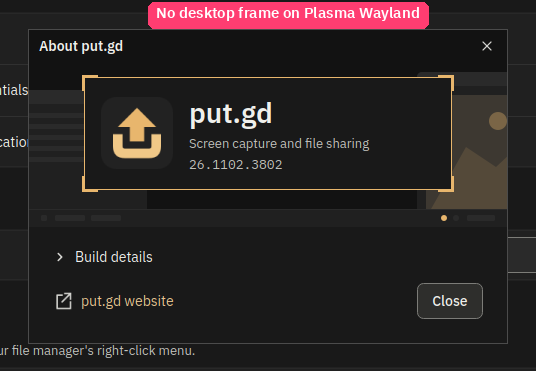
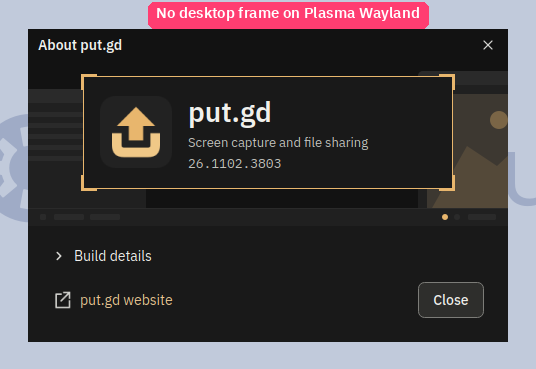
docs(ui): retake About pictures without the outline

diff --git a/docs/evidence/2026-11-02-about-window/README.md b/docs/evidence/2026-11-02-about-window/README.md
@@ -1,10 +1,10 @@
 # About window redesign (#1155)
 
-Pictures of the About window with put.gd's own title bar, the capture scene and
-the window fitted to its content.
+Pictures of the About window with put.gd's own title bar, the capture scene, no
+outline, and the window fitted to its content.
 
-Every "after" picture shows build `26.1102.3802-dev+g822dea2cddcd`, commit
-`822dea2cddcd6a6330551d881cf2018ceb30e2bf`, clean source tree, built from that
+Every "after" picture shows build `26.1102.3803-dev+gf820f1679065`, commit
+`f820f1679065b39d36a9f125065f0e0fe7132edc`, clean source tree, built from that
 commit on the host and run with a private profile on its physical desktop.
 
 | Picture | Shows | Desktop |
@@ -17,5 +17,5 @@ Red boxes and labels are annotations added afterwards.
 
 The drag and close checks in #1155 used real input on a scratch build from before
 its browser-feedback fix (`20c4f61a7`), on Cinnamon X11, Plasma Wayland and GNOME
-Wayland (f44). The exact commit above was opened and expanded on Cinnamon X11 and
-Plasma Wayland.
+Wayland (f44). The commit above, the first without the window outline, was opened and expanded on
+Cinnamon X11 and Plasma Wayland.
